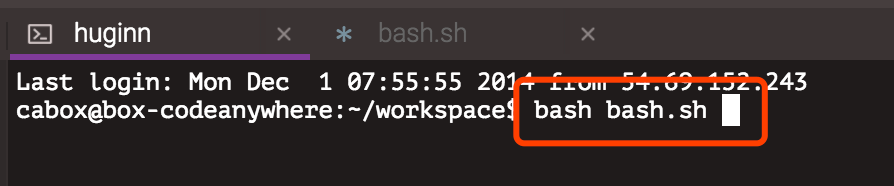
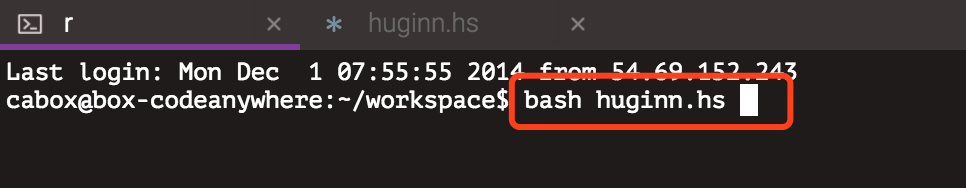
修改文字

Changed region(s): [[0.0, 0.0806, 1.0, 0.8065], [0.6342, 0.1344, 0.6644, 0.2151], [0.5738, 0.0806, 0.604, 0.1613]]

diff --git a/_posts/2017-5-14-heroku-huginn.md b/_posts/2017-5-14-heroku-huginn.md
@@ -53,7 +53,15 @@ categories: huginn
 
 第一次的话点完 Create 会让你验证邮箱，验证完邮箱对着上图再做一遍就可以了。
 
-6. 下面的话，如果你想省事，我写了一个脚本。这样你只需要输入很少的命令就可以了。
+6. 我们首先要下载新版本的 ruby 环境。
+
+![](http://walkginkgo.com/images/huginn/code-14.png)
+
+安装完毕后使用。
+
+![](http://walkginkgo.com/images/huginn/code-13.png)
+
+下面的话，我写了一个脚本。这样你只需要输入很少的命令就可以了。
 
 点击文件 新建文件。
 
@@ -61,7 +69,7 @@ categories: huginn
 
 上 [huginn.sh](https://github.com/tesths/tesths.github.com/blob/master/images/huginn/huginn.sh)，复制到 Codeanywhere 的文件编辑器里。然后点击右上角保存。
 
-保存到根目录下。
+保存到根目录下，**文件名保存为 huginn.sh**。
 
 ![](http://walkginkgo.com/images/huginn/code-10.png)
 
@@ -73,13 +81,13 @@ categories: huginn
 
 ![](http://walkginkgo.com/images/huginn/code-9.png)
 
-然后执行脚本。
+然后执行脚本 huginn.sh，bash 是执行的意思。
 
 ![](http://walkginkgo.com/images/huginn/code-11.png)
 
 执行完毕之后。
 
-先进入 `cd code-huginn/`。
+先进入 `cd code-huginn/`（这里的 code-huginn 输入你刚替换我文件中的名字就好）。
 
 在命令行登陆你的 heroku ，就是在命令行输入 `heroku login`。
 
